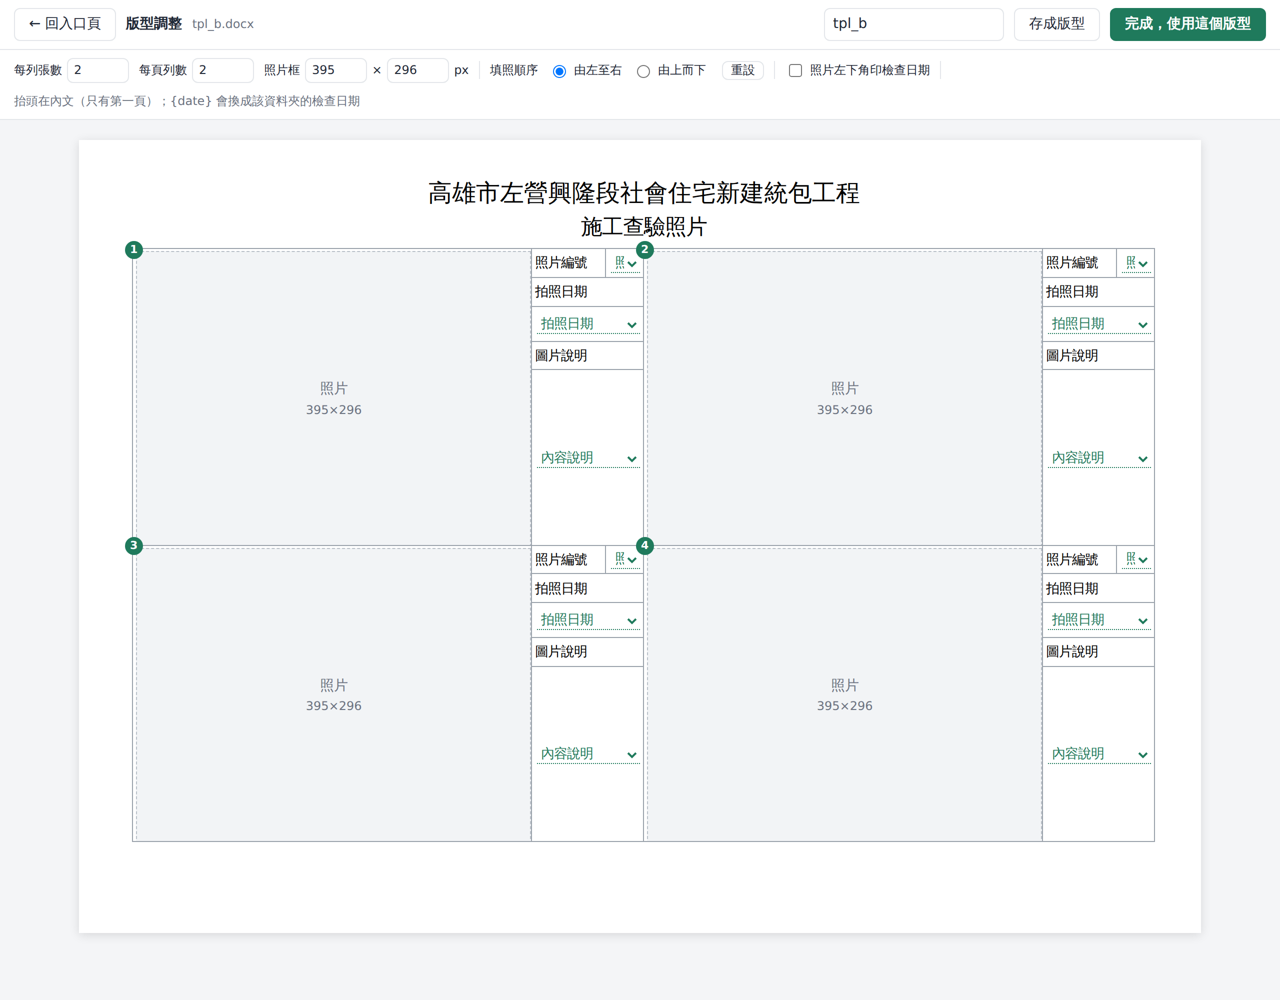
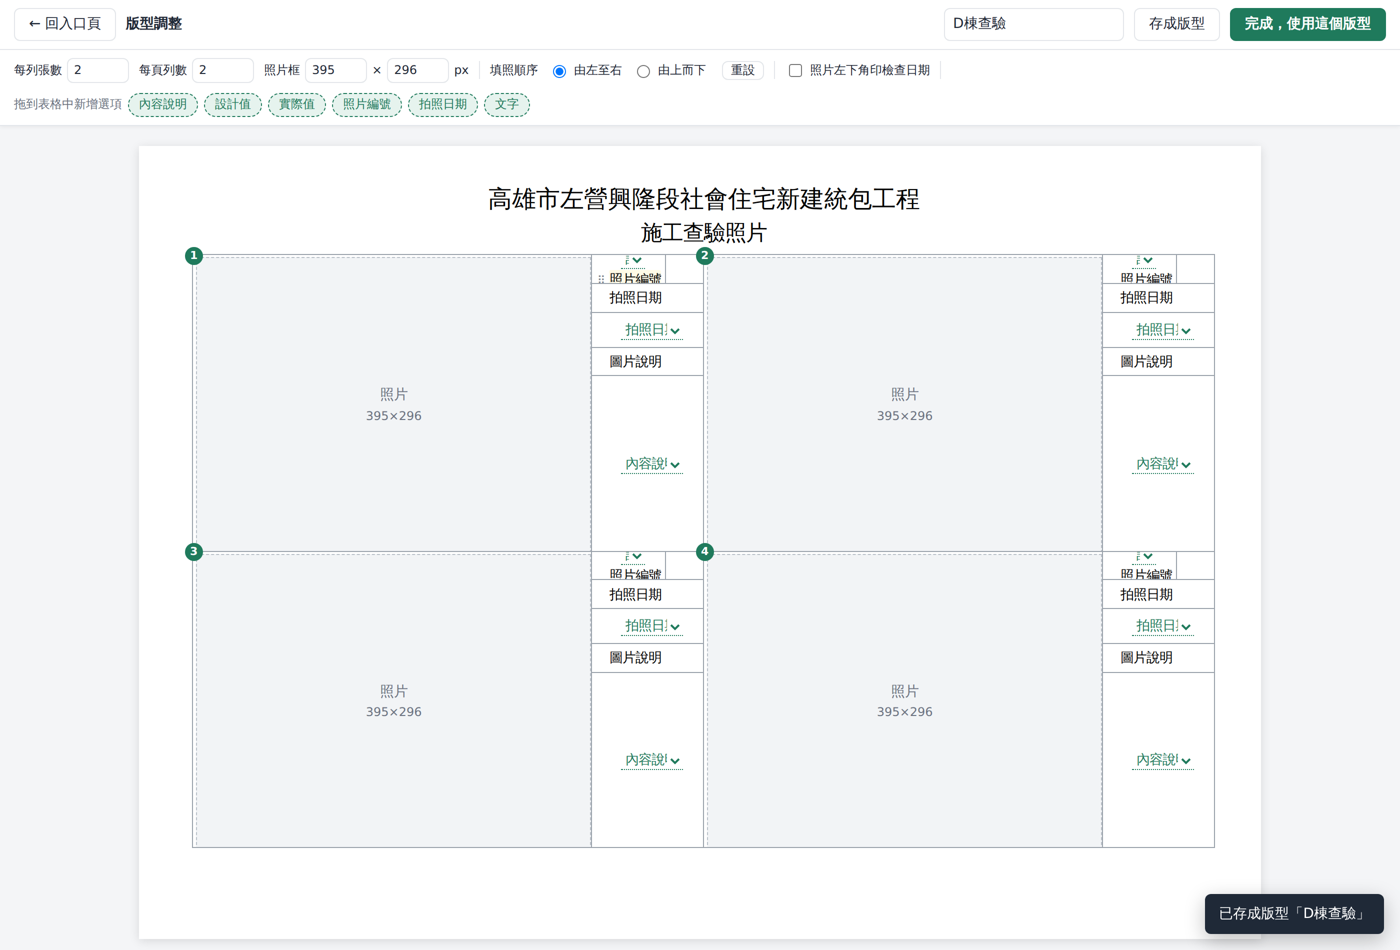
docs 補選版型頁的畫面、換上有新增選項工具列的版型調整頁
Claude-Session: https://claude.ai/code/session_011KCTZUSicovoXUBLNLRaN8

diff --git a/docs/介面規格.md b/docs/介面規格.md
@@ -9,7 +9,7 @@
    - 從工作台按「回首頁」回來時，資料夾、版型、辨識設定都留著。
    - 拖放：**整張入口頁都接得住**，拖進來的東西自己分是資料夾還是版型 docx（拖歪了也不會白忙）。頁面沒接住的拖放一律擋掉瀏覽器的預設行為，否則會跳去開檔案而變成空白頁（2026-09-04 的 bug）。
    - **檢查日期不在這裡**（改在工作台的資料夾列上填，每個資料夾各一個）；**辨識方式與提示詞也不在這裡**，見下面的「AI 辨識」。
-1b. **版型調整頁**：入口頁按「讀取版型」進來，整頁所見即所得地調版面，按「完成，使用這個版型」回入口頁。細節見 `版型.md`，畫面見 `版型調整頁.png`。
+1b. **版型頁**：入口頁按「讀取版型」進來——先「選版型」（存過的版型／預設版面／讀一份新的 docx，畫面見 `選版型頁.png`），讀了 docx 才進「版型調整」，整頁所見即所得地調版面（畫面見 `版型調整頁.png`），按「完成，使用這個版型」回入口頁。細節見 `版型.md`。
 2. **工作台**（單頁三欄）
    - **頂列**：資料夾、版型兩個 pill（＋設定過辨識方式後多一個引擎 pill）；「🤖 AI 辨識」；「批次修改設計值」；「產生 Word 檔」。
    - **左欄 200px・資料夾樹**：根資料夾 + 子資料夾 + 張數（回收桶固定排同層最後）；「新增資料夾」；底部辨識進度／已確認／待校對／已刪除。

diff --git a/docs/版型.md b/docs/版型.md
@@ -69,7 +69,7 @@
 - `validateSpec` 有錯就紅框列出原因並停用「完成」。上面這排操作列捲動時固定在頂端。
 - 「存成版型」把調好的存進版型庫。
 
-畫面紀錄（2026-09-04，無頭 Chromium 實跑）：`入口頁.png`、`版型調整頁.png`。
+畫面紀錄（2026-09-04，無頭 Chromium 實跑）：`入口頁.png`、`選版型頁.png`、`版型調整頁.png`。
 
 ## 版型庫（`template/library.js`）
 
